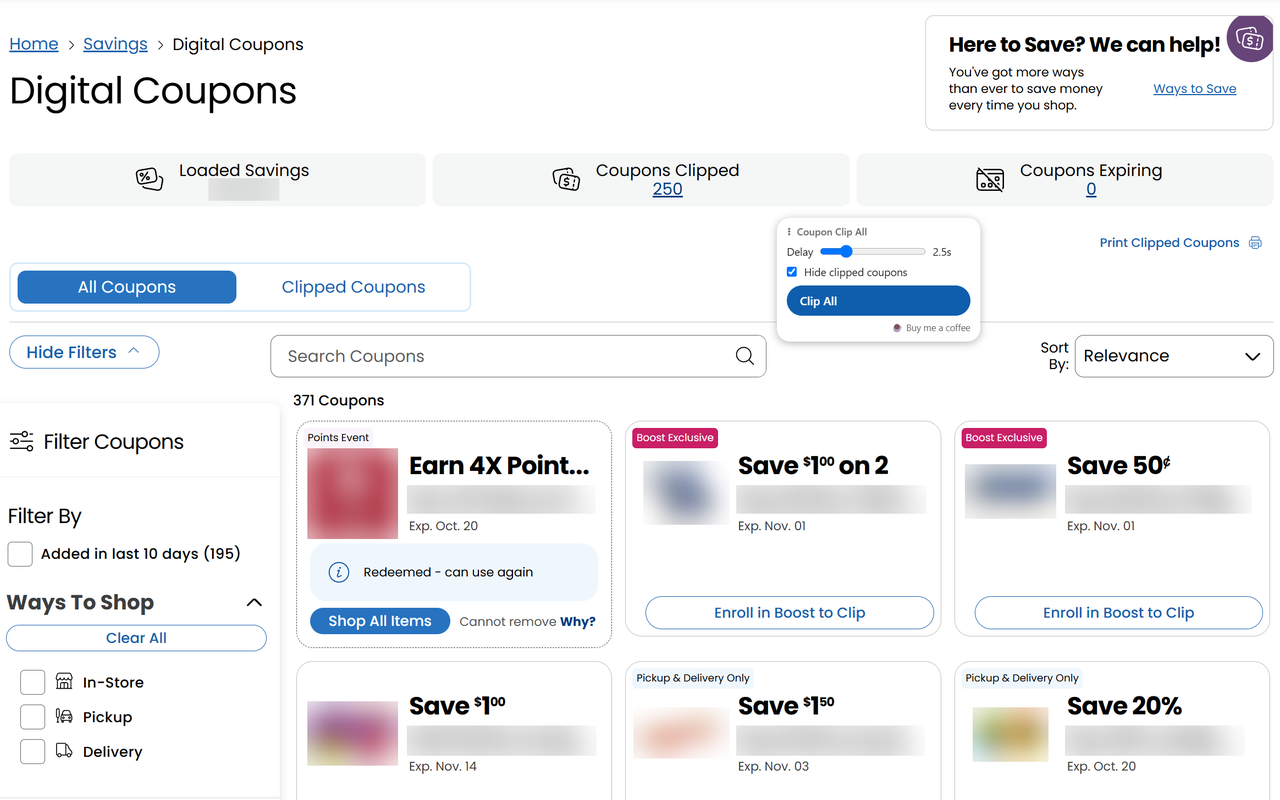
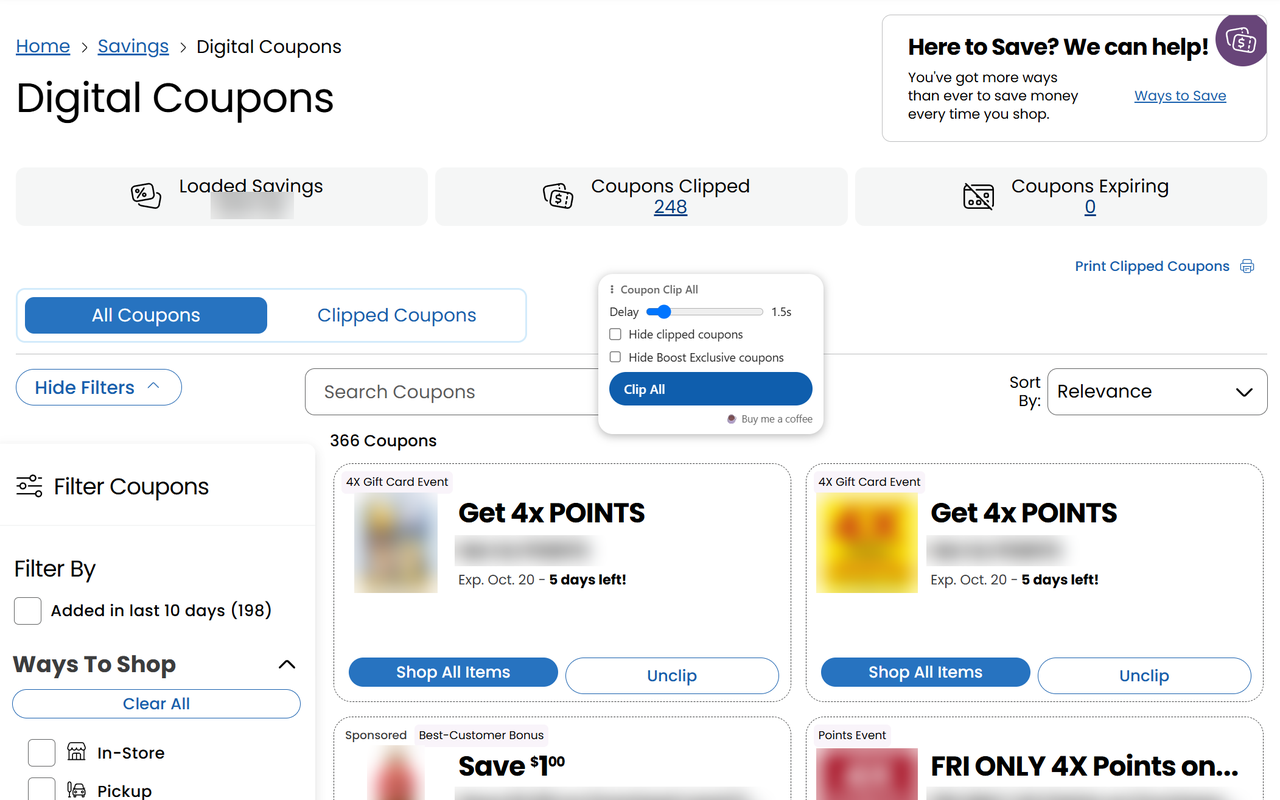
Add Hide Boost Exclusive coupons checkbox (v1.0.6)
Hides Boost Member Exclusive coupon cells via CSS, persisted like
hide-clipped, and loads all coupons when either hide option is on.
Updates README, privacy policy, store listing doc and store screenshot.

diff --git a/src/content.js b/src/content.js
@@ -10,11 +10,13 @@
     MIN_DELAY_SECONDS,
     MAX_DELAY_SECONDS,
     HIDE_CLIPPED_CSS,
+    HIDE_BOOST_CSS,
     SUPPORT_URL,
   } = window.CouponClipper;
   const STORAGE_KEY = 'delaySeconds';
   const POSITION_KEY = 'panelPosition';
   const HIDE_CLIPPED_KEY = 'hideClipped';
+  const HIDE_BOOST_KEY = 'hideBoost';
   const IDLE_COLOR = '#0f5ead';
 
   const panel = document.createElement('div');
@@ -78,6 +80,22 @@
     hideStyle.textContent = on ? HIDE_CLIPPED_CSS : '';
   };
 
+  const boostRow = document.createElement('label');
+  Object.assign(boostRow.style, { display: 'flex', alignItems: 'center', gap: '8px', cursor: 'pointer' });
+  const boostBox = document.createElement('input');
+  boostBox.type = 'checkbox';
+  const boostText = document.createElement('span');
+  boostText.textContent = 'Hide Boost Exclusive coupons';
+  boostRow.append(boostBox, boostText);
+
+  const boostStyle = document.createElement('style');
+  boostStyle.id = 'coupon-clip-all-hide-boost';
+  document.head.appendChild(boostStyle);
+  const applyHideBoost = (on) => {
+    boostBox.checked = on;
+    boostStyle.textContent = on ? HIDE_BOOST_CSS : '';
+  };
+
   const button = document.createElement('button');
   button.type = 'button';
   button.textContent = 'Clip All';
@@ -104,7 +122,7 @@
     textDecoration: 'none',
   });
 
-  panel.append(handle, delayRow, hideRow, button, support);
+  panel.append(handle, delayRow, hideRow, boostRow, button, support);
   document.body.appendChild(panel);
 
   let delaySeconds = DEFAULT_DELAY_SECONDS;
@@ -130,11 +148,10 @@
     if (storage) storage.set(items).catch(() => {});
   };
   if (storage) {
-    storage.get([STORAGE_KEY, POSITION_KEY, HIDE_CLIPPED_KEY]).then((items) => {
-      if (items && items[HIDE_CLIPPED_KEY] === true) {
-        applyHideClipped(true);
-        loadAllWhileHiding();
-      }
+    storage.get([STORAGE_KEY, POSITION_KEY, HIDE_CLIPPED_KEY, HIDE_BOOST_KEY]).then((items) => {
+      if (items && items[HIDE_CLIPPED_KEY] === true) applyHideClipped(true);
+      if (items && items[HIDE_BOOST_KEY] === true) applyHideBoost(true);
+      loadAllWhileHiding();
       if (items && items[STORAGE_KEY] !== undefined) {
         delaySeconds = clampDelaySeconds(items[STORAGE_KEY]);
         showDelay();
@@ -183,6 +200,12 @@
     loadAllWhileHiding();
   });
 
+  boostBox.addEventListener('change', () => {
+    applyHideBoost(boostBox.checked);
+    save({ [HIDE_BOOST_KEY]: boostBox.checked });
+    loadAllWhileHiding();
+  });
+
   slider.addEventListener('input', () => {
     delaySeconds = clampDelaySeconds(slider.value);
     showDelay();
@@ -193,20 +216,21 @@
   let stopRequested = false;
   let loadingAll = false;
 
-  // With clipped coupons hidden the page may be too short to scroll, so
-  // unclipped coupons further down never load unless we request them.
+  // With coupons hidden the page may be too short to scroll, so
+  // coupons further down never load unless we request them.
+  const hiding = () => hideBox.checked || boostBox.checked;
   async function loadAllWhileHiding() {
-    if (!hideBox.checked || loadingAll || running) return;
+    if (!hiding() || loadingAll || running) return;
     loadingAll = true;
-    hideText.textContent = 'Hide clipped coupons (loading all...)';
+    handle.textContent = '\u2807 Coupon Clip All (loading all...)';
     try {
-      await loadAllCards({ doc: document, win: window, shouldStop: () => !hideBox.checked || running });
+      await loadAllCards({ doc: document, win: window, shouldStop: () => !hiding() || running });
       if (!running) window.scrollTo(0, 0);
     } catch (err) {
       console.error('[Coupon Clip All]', err);
     } finally {
       loadingAll = false;
-      hideText.textContent = 'Hide clipped coupons';
+      handle.textContent = '\u2807 Coupon Clip All';
     }
   }
 

diff --git a/test/clipper.test.js b/test/clipper.test.js
@@ -220,6 +220,31 @@ test('hide-clipped selector picks up coupons clipped during a run', async () => 
   assert.deepEqual(matched, ['clippable', 'clipped', 'boostBrand']);
 });
 
+test('hide-boost selector matches only Boost Exclusive cells, not BOOST brand coupons', () => {
+  const { BOOST_CELL_SELECTOR, HIDE_BOOST_CSS } = require('../src/clipper');
+  const page = makePage();
+  const matched = Array.from(page.doc.querySelectorAll(BOOST_CELL_SELECTOR))
+    .map((li) => li.querySelector(CARD_SELECTOR).dataset.kind);
+  assert.deepEqual(matched, ['boost']);
+  assert.ok(HIDE_BOOST_CSS.includes('display: none'));
+});
+
+test('hide-boost selector matches a Boost card by its Enroll button alone', () => {
+  const { BOOST_CELL_SELECTOR } = require('../src/clipper');
+  const page = makePage();
+  const card = page.doc.querySelector('[data-kind="boost"]');
+  card.querySelectorAll('.SavingsTag--BME').forEach((tag) => tag.classList.remove('SavingsTag--BME'));
+  assert.ok(card.closest('li').matches(BOOST_CELL_SELECTOR));
+});
+
+test('hide-boost selector picks up Boost coupons loaded later', () => {
+  const { BOOST_CELL_SELECTOR } = require('../src/clipper');
+  const page = makePage();
+  page.appendClone('boost');
+  page.appendClone('clippable');
+  assert.equal(page.doc.querySelectorAll(BOOST_CELL_SELECTOR).length, 2);
+});
+
 test('loadAllCards scrolls to the bottom and fires scroll events until no more cards load', async () => {
   const { loadAllCards } = require('../src/clipper');
   const page = makePage();

diff --git a/src/clipper.js b/src/clipper.js
@@ -4,6 +4,11 @@
   const CLIPPED_CELL_SELECTOR =
     `li:has(> ${CARD_SELECTOR} ${BUTTON_SELECTOR}[aria-label^="Unclip"])`;
   const HIDE_CLIPPED_CSS = `${CLIPPED_CELL_SELECTOR} { display: none !important; }`;
+  const BOOST_CELL_SELECTOR = [
+    `li:has(> ${CARD_SELECTOR} .SavingsTag--BME)`,
+    `li:has(> ${CARD_SELECTOR} ${BUTTON_SELECTOR}[aria-label^="Enroll in Boost"])`,
+  ].join(', ');
+  const HIDE_BOOST_CSS = `${BOOST_CELL_SELECTOR} { display: none !important; }`;
 
   // Boost coupons route through an "Enroll in Boost" flow that hijacks the session.
   // Only an exact "Clip" button on a card with no Boost markers is ever clicked.
@@ -167,6 +172,8 @@
     BUTTON_SELECTOR,
     CLIPPED_CELL_SELECTOR,
     HIDE_CLIPPED_CSS,
+    BOOST_CELL_SELECTOR,
+    HIDE_BOOST_CSS,
     SUPPORT_URL,
     DEFAULT_DELAY_SECONDS,
     MIN_DELAY_SECONDS,

diff --git a/docs/web-store-listing.md b/docs/web-store-listing.md
@@ -29,11 +29,12 @@ FEATURES
 - Skips "Boost Member Exclusive" coupons, whose button starts a membership sign-up flow instead of clipping.
 - Human-paced by default: about 1.5 seconds between clips, with natural variation. Adjustable from 0.5 to 10 seconds.
 - "Hide clipped coupons" option to see only what's left.
+- "Hide Boost Exclusive coupons" option to hide the membership-only coupons it skips.
 - Draggable on-page panel with a live tally and a Stop button.
 - Stops automatically if the page navigates away or clips repeatedly fail (for example when Kroger's clipped-coupon limit is reached).
 
 PRIVACY
-No data is collected or transmitted. Only your settings (delay, panel position, hide-clipped choice) are stored, locally in your browser.
+No data is collected or transmitted. Only your settings (delay, panel position, hide options) are stored, locally in your browser.
 
 HOW TO USE
 1. Sign in at kroger.com and open the digital coupons page.
@@ -55,7 +56,7 @@ Open source: https://github.com/SixAcreApiary/coupon-clip-all
 Clips the available digital coupons on the kroger.com coupons page on the user's behalf, skipping coupons that require a paid membership.
 
 **Permission justification - storage:**
-Saves the user's own settings (delay between clips, panel position, hide-clipped toggle) locally so they persist between visits.
+Saves the user's own settings (delay between clips, panel position, hide-clipped and hide-Boost toggles) locally so they persist between visits.
 
 **Host permission justification (content script on https://www.kroger.com/savings/cl/coupons*):**
 The extension's only function is to operate on the kroger.com digital coupons page: it reads coupon cards to identify clippable ones and clicks their Clip buttons when the user presses "Clip All". It runs on no other pages.
@@ -73,14 +74,14 @@ The extension's only function is to operate on the kroger.com digital coupons pa
 
 Username/password: leave blank (don't create or share a kroger.com account).
 
-Additional instructions (max 500 chars; this is 431):
+Additional instructions (max 500 chars; this is 447):
 
 ```
 No test account: clipping needs the reviewer's own free kroger.com account; we can't create or share accounts on a third-party site.
 1. Open https://www.kroger.com/savings/cl/coupons/ and sign in.
 2. A "Coupon Clip All" panel appears bottom-right.
 3. Click Clip All: coupons clip top-down ~1.5s apart; "Boost Exclusive" coupons are skipped.
-4. "Hide clipped coupons" hides clipped ones.
+4. "Hide clipped" / "Hide Boost Exclusive" hide those coupons.
 Only local storage used; no data collected.
 ```
 
@@ -97,7 +98,8 @@ Take at 1280x800 (set the browser window to that size, or capture and crop). Avo
 1. Coupons page with the panel visible, before clicking Clip All.
 2. Mid-run: panel showing "Stop - N clipped, ..." with coupons flipping to Unclip.
 3. "Hide clipped coupons" turned on, showing only remaining coupons and skipped Boost coupons.
-4. Finished state with the summary tally.
+4. "Hide clipped coupons" and "Hide Boost Exclusive coupons" both on, showing only coupons left to clip.
+5. Finished state with the summary tally.
 
 ## Upload
 

diff --git a/README.md b/README.md
@@ -35,6 +35,7 @@ A small panel appears in the bottom-right corner of the coupons page.
 - **Move it** - drag the panel by its "Coupon Clip All" title bar. Double-click the title bar to send it back to the corner. The position is remembered.
 - **Delay** - pause between clips, 0.5-10 seconds. Defaults to **1.5 seconds**, a human-like pace; each pause varies by +/-30% so clicks aren't evenly spaced. Faster settings make automated use more noticeable to Kroger, so lower it at your own risk. The setting is remembered and can be changed mid-run.
 - **Hide clipped coupons** - hides coupons you've already clipped, including ones clipped during a run, so only unclipped coupons remain. When turned on, it scrolls through the page once to load every coupon (Kroger only loads more as you scroll), then returns to the top. Kroger's coupon count at the top doesn't change. Turn it off (or use Kroger's "Clipped Coupons" tab) to unclip something. The setting is remembered.
+- **Hide Boost Exclusive coupons** - hides "Boost Member Exclusive" coupons, which Clip All never clips anyway, so they don't clutter the page. Like the hide-clipped option, turning it on loads every coupon once. BOOST nutrition-drink brand coupons stay visible. The setting is remembered.
 - **Clip All** - starts clipping. While running, the button becomes **Stop** and shows a running tally.
 - **Buy me a coffee** - optional support link; opens in a new tab.
 
@@ -52,7 +53,7 @@ A coupon is only clicked when its button reads exactly **Clip** and the card has
 - **Use at your own risk.** Automated clicking may violate Kroger's terms of use, and Kroger may restrict, suspend or close accounts it believes are using automation. The authors aren't responsible for any action taken on your account.
 - If Kroger changes its page layout the extension may stop finding coupons until it's updated.
 - Only `www.kroger.com` is supported; other Kroger-family banners (Ralphs, Fred Meyer, etc.) are not.
-- The extension collects no data and makes no network requests of its own. It stores only your delay, panel position and hide-clipped setting, locally in your browser. See [PRIVACY.md](PRIVACY.md).
+- The extension collects no data and makes no network requests of its own. It stores only your delay, panel position and hide settings, locally in your browser. See [PRIVACY.md](PRIVACY.md).
 
 ## Development
 

diff --git a/PRIVACY.md b/PRIVACY.md
@@ -10,11 +10,12 @@ The extension **does not collect, transmit, sell or share any personal or usage 
 
 ## Data stored on your device
 
-The extension saves three settings using the browser's local extension storage (`chrome.storage.local`):
+The extension saves four settings using the browser's local extension storage (`chrome.storage.local`):
 
 - your chosen delay between clips
 - the on-page panel's position
 - whether "Hide clipped coupons" is turned on
+- whether "Hide Boost Exclusive coupons" is turned on
 
 These never leave your browser. Removing the extension deletes them.
 
